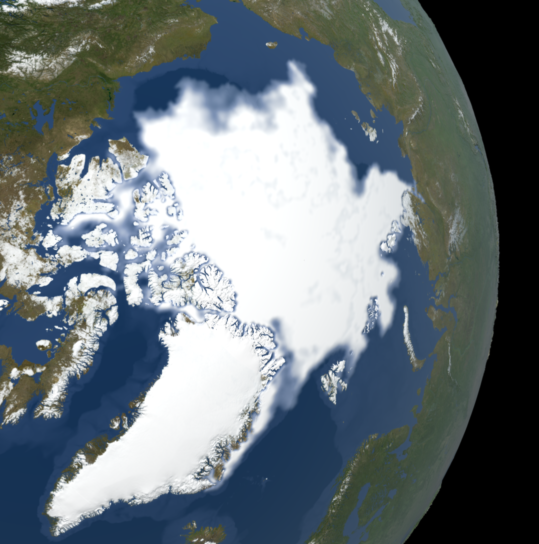
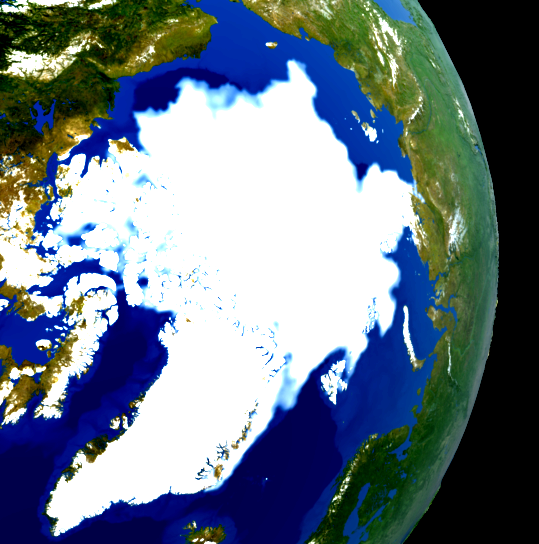
Making images higher contrast

diff --git a/index.html b/index.html
@@ -33,10 +33,22 @@
         <div class="text-container">
             <div>
                 <p>Choose an image to analyse by clicking on the circles below.</p>
-                <p>Click on any squares that are at least half covered with ice. If you make a mistake, click on it again to remove.</p>
+                <p>Click on all of the squares that are at least half covered with ice. If you make a mistake, click on it again to remove it.</p>
                 <p>When you've clicked on all of the white squares, read the number next to "Square Counter" below and write it on your worksheet next to the year.</p>
             </div>
             <form id="imageForm">
+                <input type="radio" id="image1" name="image" value="1983.png">
+                <label for="image1">1983</label><br>
+                <input type="radio" id="image2" name="image" value="1993.png">
+                <label for="image2">1993</label><br>
+                <input type="radio" id="image3" name="image" value="2003.png">
+                <label for="image3">2003</label><br>
+                <input type="radio" id="image4" name="image" value="2013.png">
+                <label for="image4">2013</label><br>
+                <input type="radio" id="image5" name="image" value="2023.png">
+                <label for="image5">2023</label><br>
+            </form>
+            <!-- <form id="imageForm">
                 <input type="radio" id="image1" name="image" value="1980.png">
                 <label for="image1">1980</label><br>
                 <input type="radio" id="image2" name="image" value="1990.png">
@@ -47,7 +59,7 @@
                 <label for="image4">2010</label><br>
                 <input type="radio" id="image5" name="image" value="2020.png">
                 <label for="image5">2020</label><br>
-            </form>
+            </form> -->
             <p>Square Counter: <span id="counter">0</span></p>
             <!-- <button id="resetCounter">Reset Counter</button> -->
         </div>
